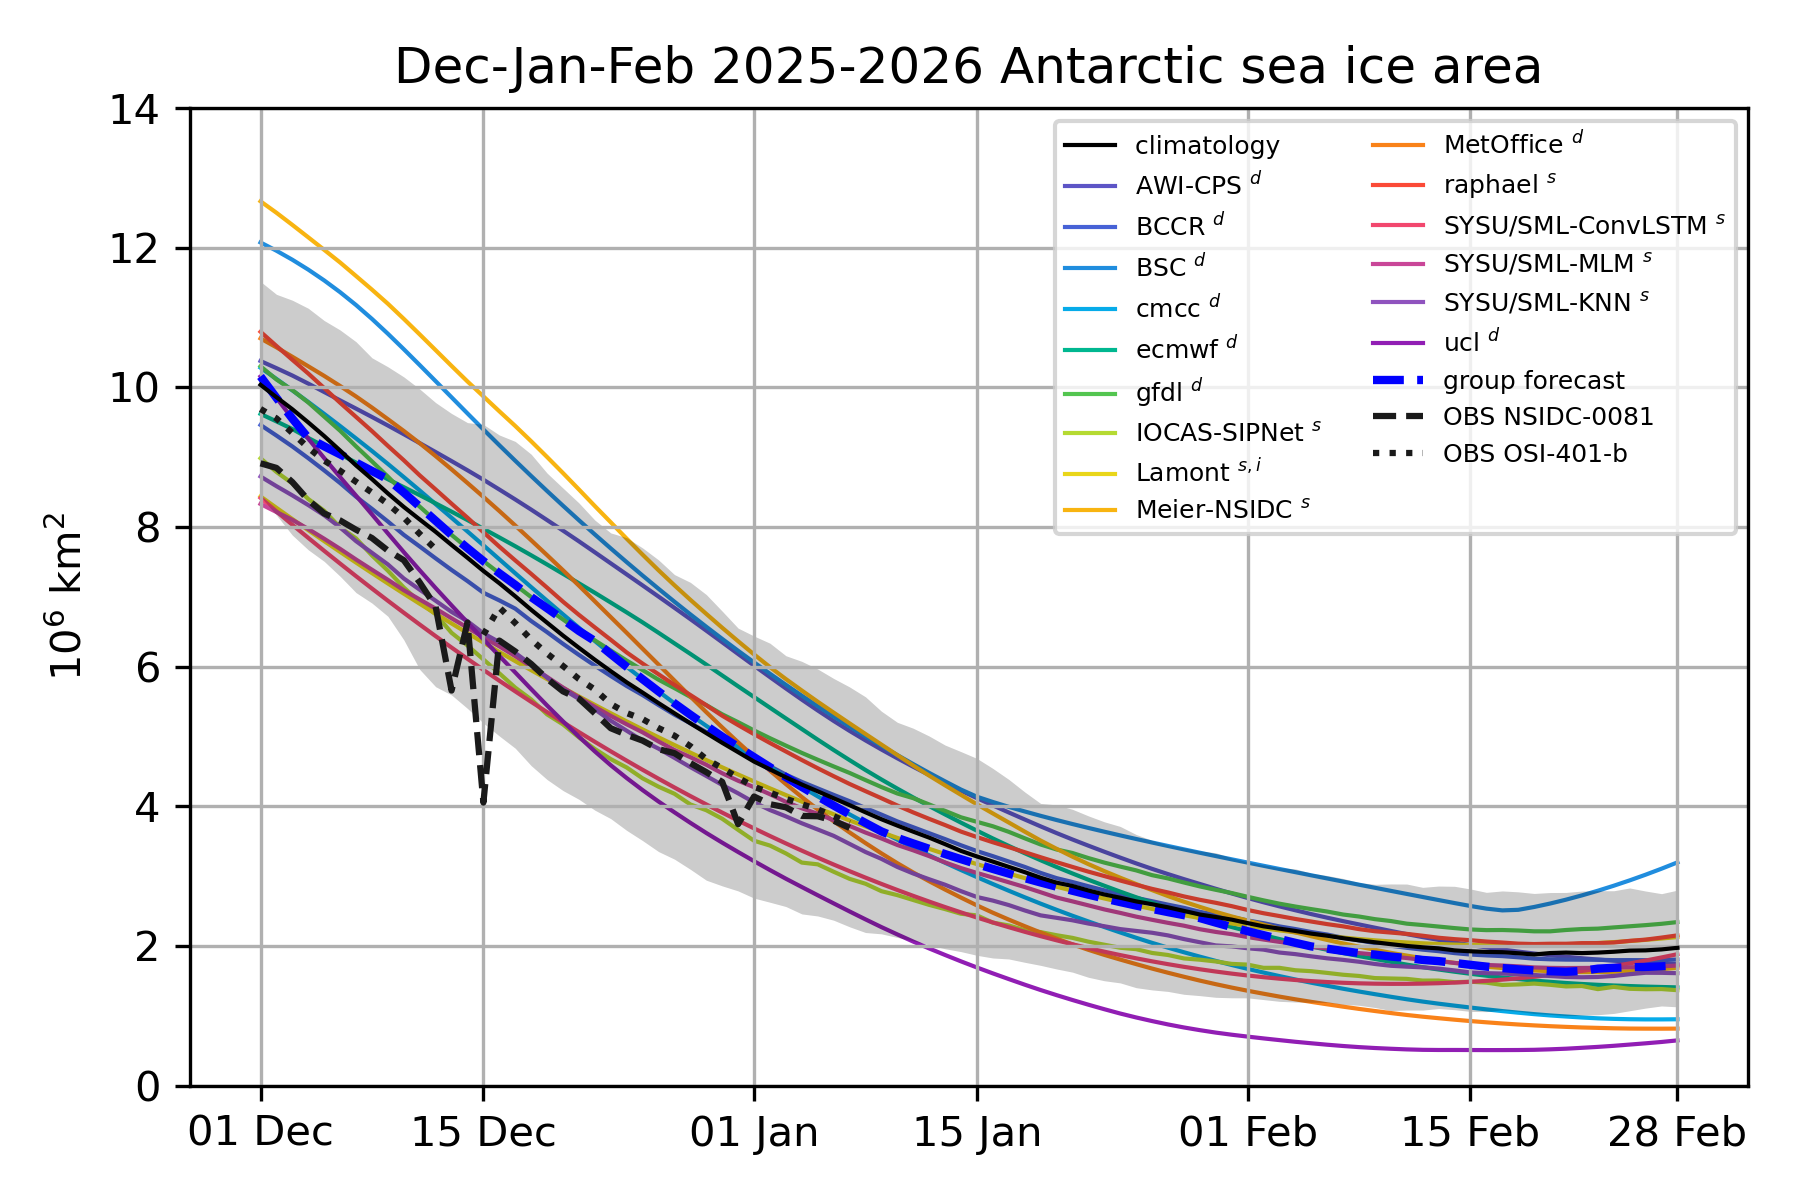
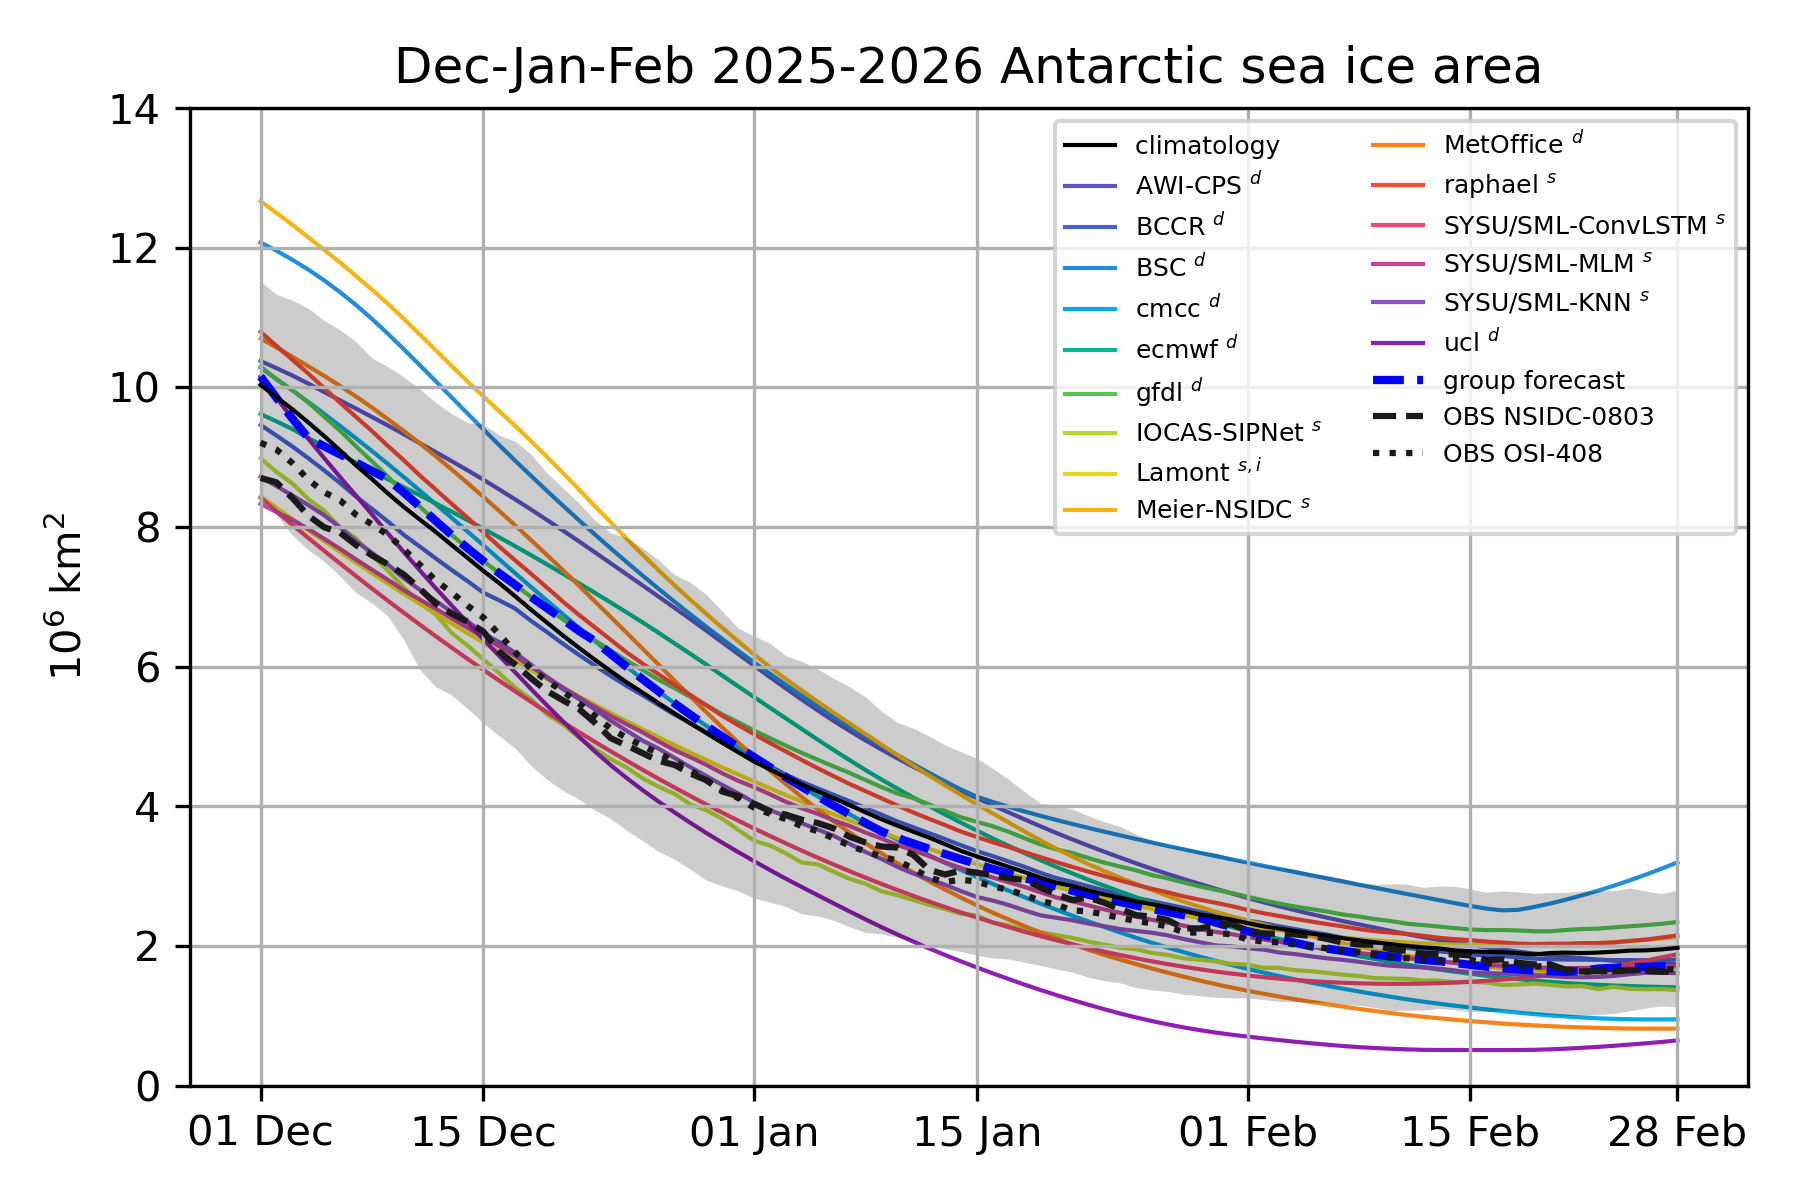
post season

diff --git a/analyses.md b/analyses.md
@@ -4,7 +4,7 @@
 
 SIPN South organizes the 9th forecasting season of its young history.
 
-Due to the cessation of the production of the OSI-401-b product, the analyses from this forecasting season will rely on [OSI-401d](https://osi-saf.eumetsat.int/products/osi-401-b), as well as the [NSIDC-0081](https://nsidc.org/data/nsidc-0081/versions/2) product. 
+Due to the cessation of the production of the OSI-401-b and NSIDC-0081 products (due itself to the planned decommissionning of SSMI sensors), the analyses from this forecasting season will rely on [OSI-408](https://osi-saf.eumetsat.int/products/osi-408), as well as the [NSIDC-0803](https://nsidc.org/data/nsidc-0803/versions/2) AMSR-based products. 
 
 We warmly thank the following groups for contributing a forecast this year:
 
@@ -30,8 +30,9 @@ We warmly thank the following groups for contributing a forecast this year:
 
 <img src="/sipn-south.github.io//pics/2025-2026/fig2_paper.png"  width="1000"/>
 
-### Preliminary analyses
+### Post-season verification graphs
 
 
 <img src="/sipn-south.github.io//pics//2025-2026/fig1.png"  width="1000"/>
 <img src="/sipn-south.github.io//pics//2025-2026/fig2.png"  width="1000"/>
+<img src="/sipn-south.github.io//pics//2025-2026/CRPS.png"  width="1000"/>
